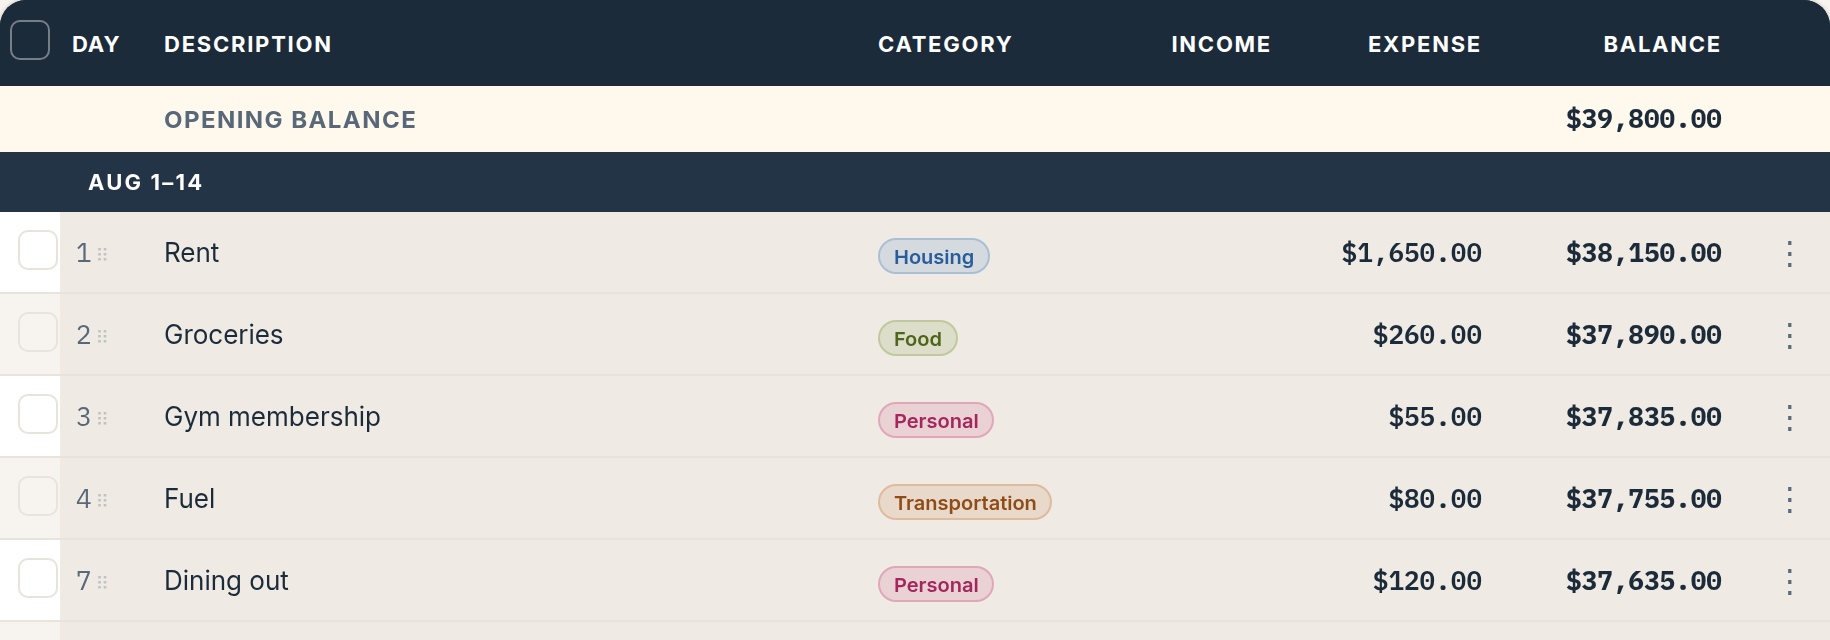
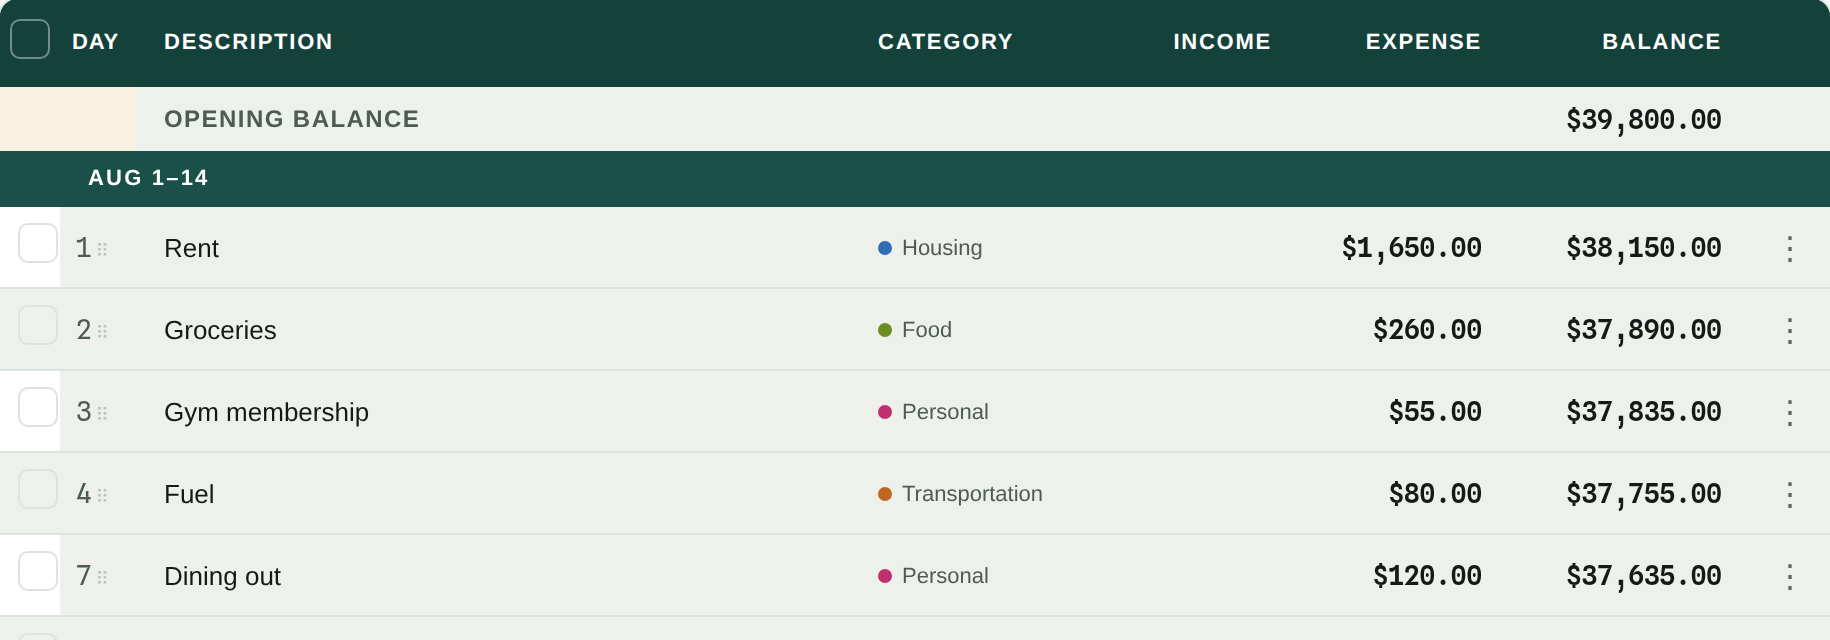
Regenerate the Help screenshots, and two things they exposed
The ten shots in images/help are captured from the shipped bundle, so after
the redesign they were all showing an app that no longer exists. Regenerated
against the same fictional household as before — 441 KB, still inside the
per-shot and total caps tests/help-shots.mjs enforces.

Photographing the app is a good way to notice what you have stopped seeing.
Two things turned up:

The opening-balance row was still amber in the desktop table. The mobile
card had already been changed — the opening balance is where the month
starts from, not a warning — so the two layouts were disagreeing about what
that row means. They agree now.

A KPI figure was breaking mid-number: "Net Surplus/Deficit" is a long label,
and with the slightly wider type face the value and its sparkline no longer
fit on one row. Forcing them onto one line made it worse, splitting
"$43,525.00" across two lines, so that attempt is not what landed here. The
row keeps its original wrap — which fails by moving the sparkline down and
leaving the figure whole — and the value steps down a point so the common
case stays on one row. How it fails is unchanged; it just fails later.

Claude-Session: https://claude.ai/code/session_01BeotTqPM3G19tcBqKsq9he

diff --git a/index.html b/index.html
@@ -976,7 +976,7 @@
         .budget-th-col{font-size:11px;font-weight:700;color:#fff;padding:10px 14px;letter-spacing:0.08em;text-transform:uppercase;cursor:grab;user-select:none;transition:background 0.1s;}
         .budget-th-actions{width:40px;padding:8px;text-align:center;background:var(--navy);}
         td.budget-th-actions{background:none;}
-        .openbal-row{background:var(--amberLt);}
+        .openbal-row{background:var(--stripe);}
         .budget-day-spacer-td{width:40px;padding:0;}
         .budget-label-cell{font-size:12px;font-weight:700;padding:8px 14px;color:var(--textMid);letter-spacing:0.06em;text-transform:uppercase;white-space:nowrap;}
         .budget-totals-label{font-size:12px;font-weight:700;padding:10px 14px;color:#fff;letter-spacing:0.06em;text-transform:uppercase;white-space:nowrap;}
@@ -1236,7 +1236,7 @@
         /* overflow-wrap for the same reason .kpi-card .kpi-value has it — the
            annual tiles are the other place a long amount can outgrow its card,
            and they were the pair that never got the treatment. */
-        .kpi-spark-value{font-family:var(--font-ui);font-variant-numeric:tabular-nums;font-size:18px;font-weight:700;overflow-wrap:anywhere;}
+        .kpi-spark-value{font-family:var(--font-ui);font-variant-numeric:tabular-nums;font-size:17px;font-weight:700;overflow-wrap:anywhere;}
         .kpi-warn-note{font-size:11px;color:var(--red);margin-top:4px;}
         .kpi-sub-note{font-size:11px;color:var(--textLt);margin-top:4px;}
         .dash-cat-bar-wrap{height:220px;overflow-y:auto;padding-right:4px;display:flex;flex-direction:column;gap:8px;margin-top:4px;}
@@ -4509,7 +4509,7 @@ document.addEventListener('DOMContentLoaded',function(){
   const HELP_SHOTS = {
     "settings-years": {
       "w": 917,
-      "h": 154
+      "h": 151
     },
     "entry-form": {
       "w": 680,
@@ -4517,7 +4517,7 @@ document.addEventListener('DOMContentLoaded',function(){
     },
     "budget-toolbar": {
       "w": 521,
-      "h": 29
+      "h": 31
     },
     "budget-grid": {
       "w": 915,
@@ -4525,7 +4525,7 @@ document.addEventListener('DOMContentLoaded',function(){
     },
     "row-menu": {
       "w": 180,
-      "h": 248
+      "h": 235
     },
     "bva": {
       "w": 917,
@@ -4533,19 +4533,19 @@ document.addEventListener('DOMContentLoaded',function(){
     },
     "dashboard-kpis": {
       "w": 917,
-      "h": 86
+      "h": 84
     },
     "dashboard-upcoming": {
       "w": 917,
-      "h": 260
+      "h": 228
     },
     "plan-goals": {
       "w": 917,
-      "h": 193
+      "h": 191
     },
     "settings-backup": {
       "w": 917,
-      "h": 104
+      "h": 102
     }
   };
   // Extracted from app-data.js (round-9 AR4 remainder) — pure code motion.

diff --git a/src/styles.css b/src/styles.css
@@ -948,7 +948,7 @@
         .budget-th-col{font-size:11px;font-weight:700;color:#fff;padding:10px 14px;letter-spacing:0.08em;text-transform:uppercase;cursor:grab;user-select:none;transition:background 0.1s;}
         .budget-th-actions{width:40px;padding:8px;text-align:center;background:var(--navy);}
         td.budget-th-actions{background:none;}
-        .openbal-row{background:var(--amberLt);}
+        .openbal-row{background:var(--stripe);}
         .budget-day-spacer-td{width:40px;padding:0;}
         .budget-label-cell{font-size:12px;font-weight:700;padding:8px 14px;color:var(--textMid);letter-spacing:0.06em;text-transform:uppercase;white-space:nowrap;}
         .budget-totals-label{font-size:12px;font-weight:700;padding:10px 14px;color:#fff;letter-spacing:0.06em;text-transform:uppercase;white-space:nowrap;}
@@ -1208,7 +1208,7 @@
         /* overflow-wrap for the same reason .kpi-card .kpi-value has it — the
            annual tiles are the other place a long amount can outgrow its card,
            and they were the pair that never got the treatment. */
-        .kpi-spark-value{font-family:var(--font-ui);font-variant-numeric:tabular-nums;font-size:18px;font-weight:700;overflow-wrap:anywhere;}
+        .kpi-spark-value{font-family:var(--font-ui);font-variant-numeric:tabular-nums;font-size:17px;font-weight:700;overflow-wrap:anywhere;}
         .kpi-warn-note{font-size:11px;color:var(--red);margin-top:4px;}
         .kpi-sub-note{font-size:11px;color:var(--textLt);margin-top:4px;}
         .dash-cat-bar-wrap{height:220px;overflow-y:auto;padding-right:4px;display:flex;flex-direction:column;gap:8px;margin-top:4px;}

diff --git a/sw.js b/sw.js
@@ -1,5 +1,5 @@
 // CashFlow service worker. Built to sw.js at the repo root by build.js, which
-// substitutes v190-07b113d8ce30 with the CF_VERSION constant in bootstrap-head.js
+// substitutes v190-010c1fd9027d with the CF_VERSION constant in bootstrap-head.js
 // so the cache name and the app bundle always bump together.
 //
 // This has to be a real same-origin file: it used to be registered from a
@@ -9,7 +9,7 @@
 // way to receive Web Push — push events are delivered to the worker, not to a
 // page — and on Android it's the only way to show a notification at all
 // (Chrome for Android does not implement the `new Notification()` constructor).
-const CACHE = 'cf-v190-07b113d8ce30';
+const CACHE = 'cf-v190-010c1fd9027d';
 
 self.addEventListener('install', (e) => {
   e.waitUntil(

diff --git a/src/lib/help-shots.js b/src/lib/help-shots.js
@@ -4,7 +4,7 @@
   const HELP_SHOTS = {
     "settings-years": {
       "w": 917,
-      "h": 154
+      "h": 151
     },
     "entry-form": {
       "w": 680,
@@ -12,7 +12,7 @@
     },
     "budget-toolbar": {
       "w": 521,
-      "h": 29
+      "h": 31
     },
     "budget-grid": {
       "w": 915,
@@ -20,7 +20,7 @@
     },
     "row-menu": {
       "w": 180,
-      "h": 248
+      "h": 235
     },
     "bva": {
       "w": 917,
@@ -28,18 +28,18 @@
     },
     "dashboard-kpis": {
       "w": 917,
-      "h": 86
+      "h": 84
     },
     "dashboard-upcoming": {
       "w": 917,
-      "h": 260
+      "h": 228
     },
     "plan-goals": {
       "w": 917,
-      "h": 193
+      "h": 191
     },
     "settings-backup": {
       "w": 917,
-      "h": 104
+      "h": 102
     }
   };
